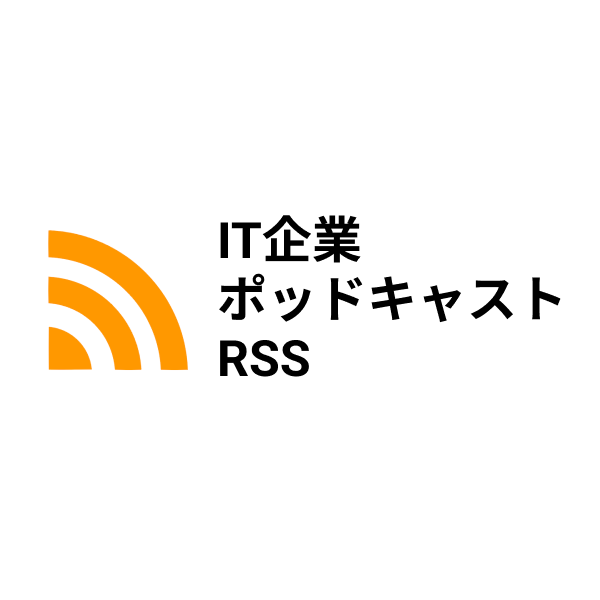
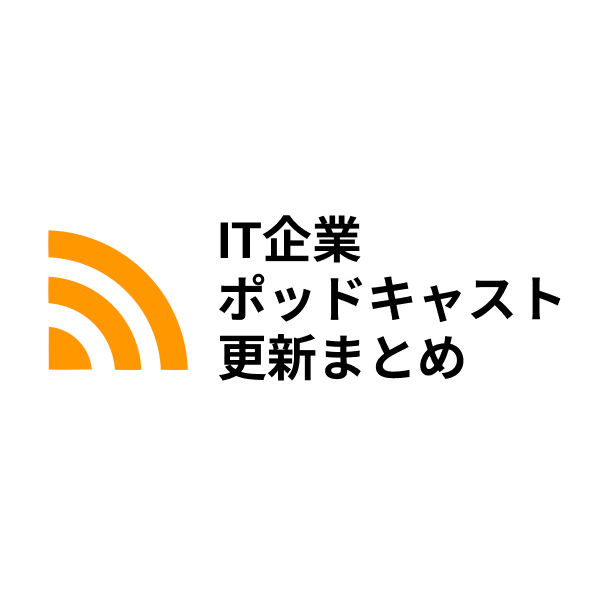
feat: サイトの説明などを修正

Changed region(s): [[0.36, 0.54, 0.6, 0.63], [0.63, 0.54, 0.78, 0.63]]

diff --git a/src/common/constants.js b/src/common/constants.js
@@ -5,11 +5,11 @@ module.exports = {
   // サイト設定
   siteUrl: `${siteUrl}`,
   siteUrlStem: siteUrlStem,
-  siteTitle: 'IT企業のポッドキャストRSS',
+  siteTitle: 'IT企業のポッドキャスト更新まとめ',
   siteDescription: 'IT企業のポッドキャストの更新をまとめたRSSフィードを配信しています',
 
   // フィード設定
-  feedTitle: 'IT企業のポッドキャストRSS',
+  feedTitle: 'IT企業のポッドキャスト更新まとめ',
   feedDescription: 'IT企業のポッドキャストの更新をまとめたRSSフィード',
   feedLanguage: 'ja',
   feedCopyright: 'it-trio/it-company-podcast-rss-feed',

diff --git a/README.md b/README.md
@@ -1,29 +1,20 @@
-# <img src="src/site/images/icon-transparent.png" height=26> 企業テックブログRSS
-企業のテックブログの更新をまとめたRSSフィードを配信しています。  
-記事を読んでその企業の技術・カルチャーを知れることや、質の高い技術情報を得られることを目的としています。
+# <img src="src/site/images/icon-transparent.png" height=26> IT企業のポッドキャスト更新まとめ
 
-https://yamadashy.github.io/tech-blog-rss-feed/
+IT企業が運営しているポッドキャストの更新をまとめたRSSフィードを配信しています。
+
+@yamadashyさんの作成された[yamadashy/tech-blog-rss-feed](https://yamadashy.github.io/tech-blog-rss-feed/)をフォークして作成しました。
 
 
-独自のフィードを作って公開したい場合は自由にフォークしてください。
+## 番組追加の方針
 
-## サイト追加の方針
-企業のテックブログ（技術ブログ、エンジニアブログ）であれば、基本的には追加します。  
-ただし、以下に該当するものは検討します。
+以下の条件を満たした番組を追加しています。
 
-- その企業の取り組みでないものが多く投稿される可能性があるブログ
-  - テック系メディア
-  - Qiita Organization や Zenn Publication など、組織として投稿しているかの線引が曖昧なものは、投稿内容を見て検討します
-- 記事が自社製品の紹介のみ
-- 日本語以外の言語で書かれている記事が多いブログ
+- IT企業が運営していること
 
-逆に、以下はテックブログと判断して追加しています。
+個人のエンジニアやデザイナーが運営しているポッドキャスト番組については[it-trio/engineer-designer-podcast-rss](https://github.com/it-trio/engineer-designer-podcast-rss)で管理しています。
 
-- [Zenn](https://zenn.dev/), [note](https://note.com/), [Medium](https://medium.com/) などの企業系テックブログ
-- 企業系ブログのテクノロジーカテゴリ
-
-## サイトの追加方法
-[src/resources/feed-info-list.ts](https://github.com/yamadashy/tech-blog-rss-feed/blob/main/src/resources/feed-info-list.ts) で管理しており、その一覧にない場合 issue を作っていただければ対応します。  
+## 番組の追加方法
+[src/resources/feed-info-list.ts](https://github.com/it-trio/it-company-podcast-rss-feed/blob/main/src/resources/feed-info-list.ts) で管理しており、その一覧にない場合 issue を作っていただければ対応します。  
 
 ### プルリクでの送り方
 もしプルリクを送っていただける場合は以下のように作成できます。
@@ -45,18 +36,7 @@ https://yamadashy.github.io/tech-blog-rss-feed/
 GitHub Actions で定期的に更新されており、サイトの生成は [Eleventy](https://www.11ty.dev/) を使用しています。
 
 更新は多少遅延ありますが以下のタイミングで行います。
-- 平日 8時-24時の1時間おき
-- 休日 8時-24時の2時間おき
-
-### フォークして使う場合
-以下を書き換えると独自のサイトが動きます。
-
-- `src/common/constants.js` の URL など
-- `src/resources/feed-info-list.ts` のブログ情報
-
-特定のブログに絞ったり、以下のように全く違ったフィードを作るもの良いと思います。
-
-- [MATLAB-blog-rss-feed](https://github.com/minoue-xx/MATLAB-blog-rss-feed) ... MATLAB/Simulink 関連ブログの更新をまとめたRSSフィードを配信
+- 平日 6時、12時、20時
 
 ### 開発環境とコマンド
 環境
